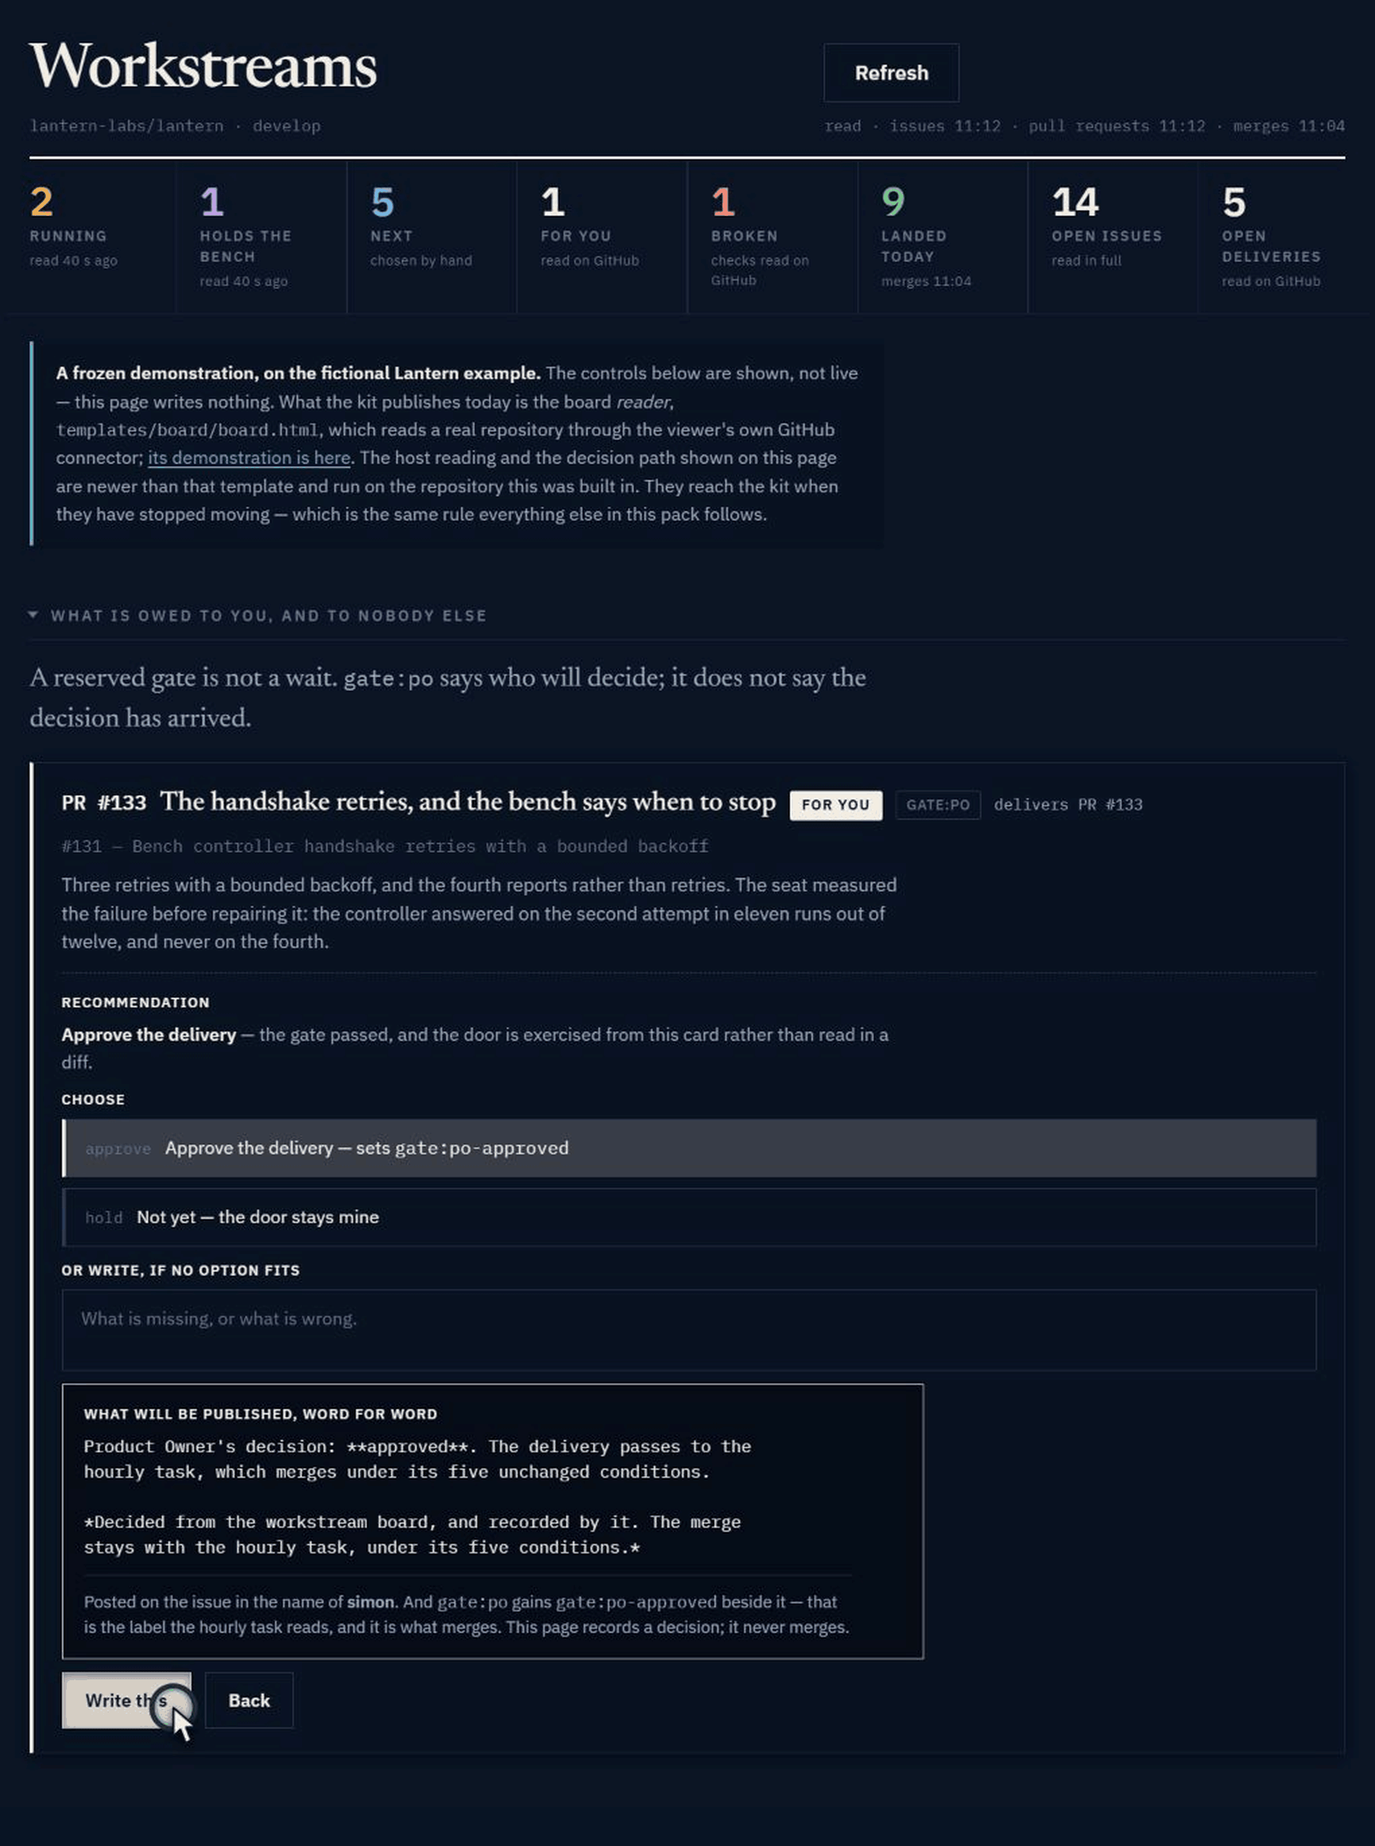
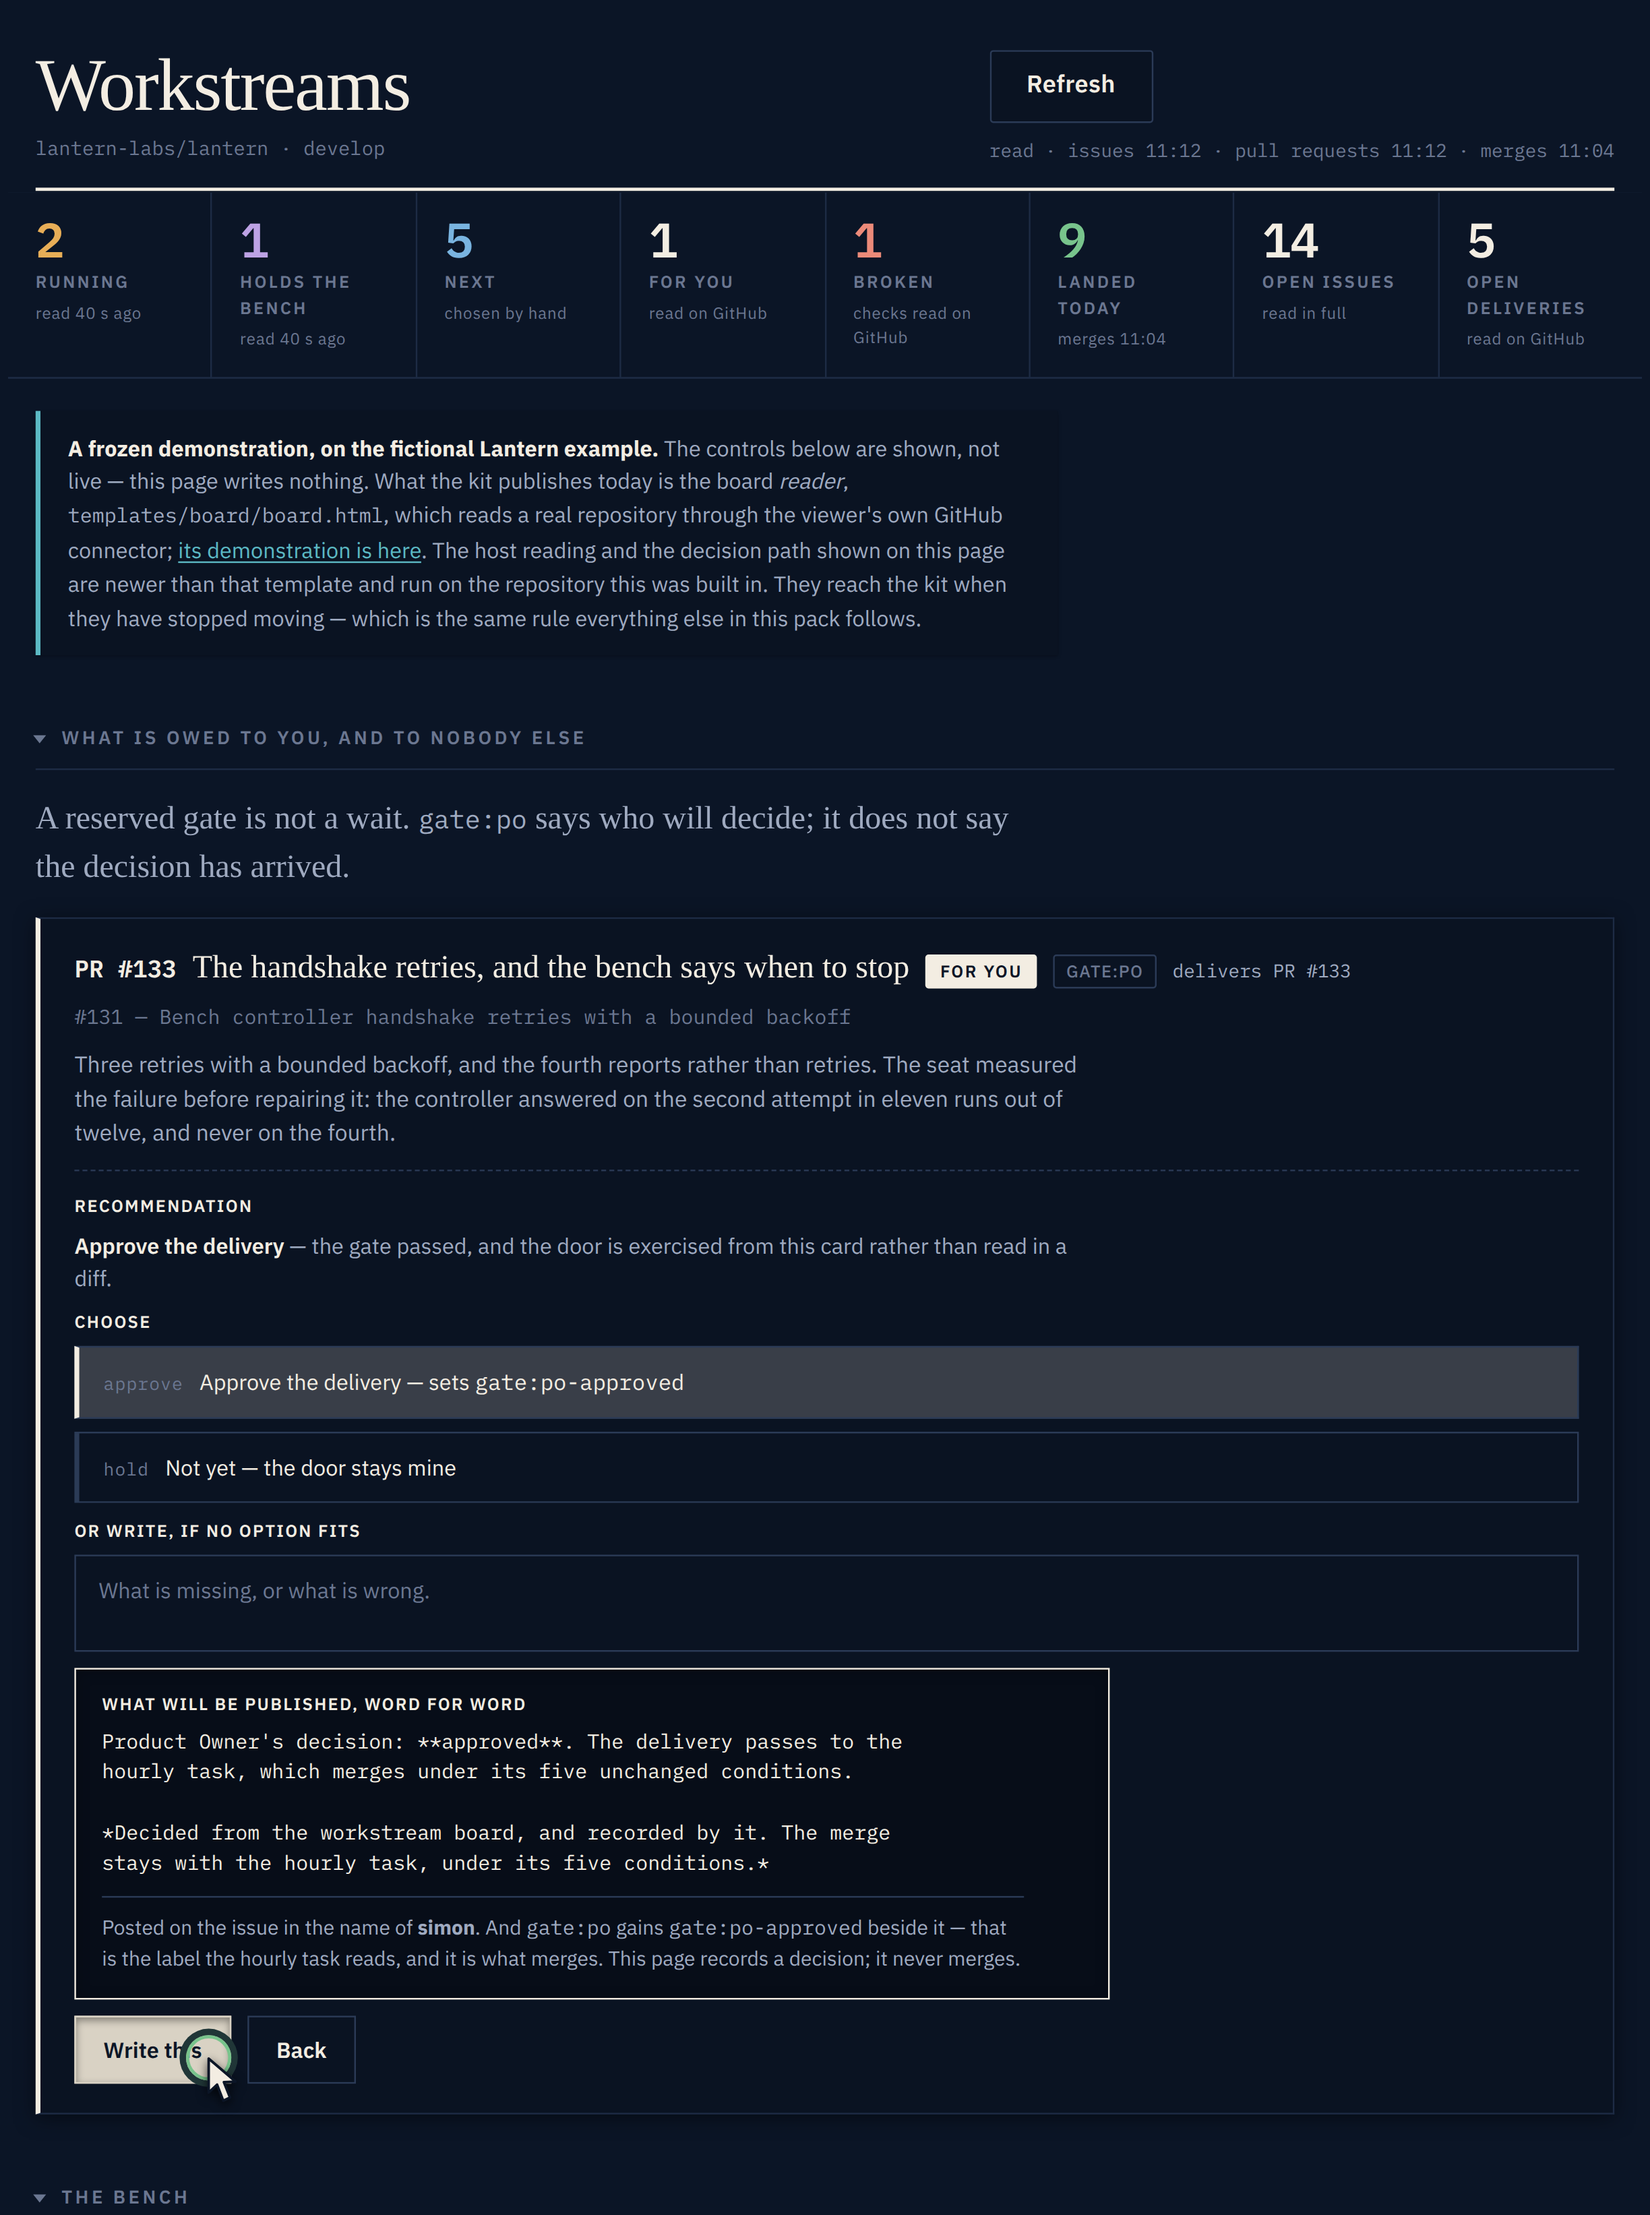
The board image in true colour, and the French README put back
Claude-Session: https://claude.ai/code/session_01GZZuzppc4nHGQj5VoXF63P

diff --git a/README.fr.md b/README.fr.md
@@ -29,8 +29,8 @@ page l'est : le lecteur de tableau ci-dessous, que vous pouvez ouvrir tout de
 suite.
 
 <p align="center">
-  <a href="https://simon-pacifae-dupont.github.io/Guildwork/fr/demo/board/"><img alt="Le tableau sur l'exemple fictif Lantern : huit compteurs, un par état, portant chacun la façon dont il a été lu, et une carte de décision avec un choix approuver ou suspendre et le commentaire exact qu'elle publierait." src="brand/board-demo.fr.png" width="880"></a><br>
-  <sub>Le tableau tel qu'il tourne, sur l'exemple fictif Lantern. Huit compteurs — un par état, vert compris — portant chacun <em>comment</em> il a été lu ; puis la seule décision qui revient au Product Owner et à personne d'autre, prise sur la page où elle se lit — le commentaire qu'elle publiera étant montré mot pour mot avant. Il ne fusionne jamais. <a href="https://simon-pacifae-dupont.github.io/Guildwork/fr/demo/board/">Ouvrir la démonstration</a> — figée, et elle le dit sur sa face.</sub>
+  <a href="https://simon-pacifae-dupont.github.io/Guildwork/demo/board/"><img alt="Le tableau sur l'exemple fictif Lantern : huit compteurs, un par état, portant chacun la façon dont il a été lu, et une carte de décision avec un choix approuver ou suspendre et le commentaire exact qu'elle publierait." src="brand/board-demo-dark.png" width="880"></a><br>
+  <sub>Le tableau tel qu'il tourne, sur l'exemple fictif Lantern. Huit compteurs — un par état, vert compris — portant chacun <em>comment</em> il a été lu ; puis la seule décision qui revient au Product Owner et à personne d'autre, prise sur la page où elle se lit — le commentaire qu'elle publiera étant montré mot pour mot avant. Il ne fusionne jamais. <a href="https://simon-pacifae-dupont.github.io/Guildwork/demo/board/">Ouvrir la démonstration</a> — figée, et elle le dit sur sa face. Elle est en anglais, comme le pack ; <a href="https://simon-pacifae-dupont.github.io/Guildwork/fr/demo/board/">le lecteur livré existe en français</a>.</sub>
 </p>
 
 > **Les quinze documents du pack sont en anglais** et le restent : c'est la
@@ -103,9 +103,8 @@ Ce que le pack livre aujourd'hui, c'est le *lecteur*, sous
 `templates/board/`. La lecture de l'hôte et le chemin de décision montrés
 dans la démonstration sont plus récents, et rejoindront le pack quand ils
 auront cessé de bouger — c'est la règle que tout le reste ici applique.
-[Démonstration](https://simon-pacifae-dupont.github.io/Guildwork/fr/demo/board/) ·
-[le lecteur livré](https://simon-pacifae-dupont.github.io/Guildwork/demo/board/reader/) ·
-[in English](https://simon-pacifae-dupont.github.io/Guildwork/demo/board/).
+[Démonstration](https://simon-pacifae-dupont.github.io/Guildwork/demo/board/) ·
+[le lecteur livré, en français](https://simon-pacifae-dupont.github.io/Guildwork/fr/demo/board/).
 
 ## Ce que contient ce dépôt
 
